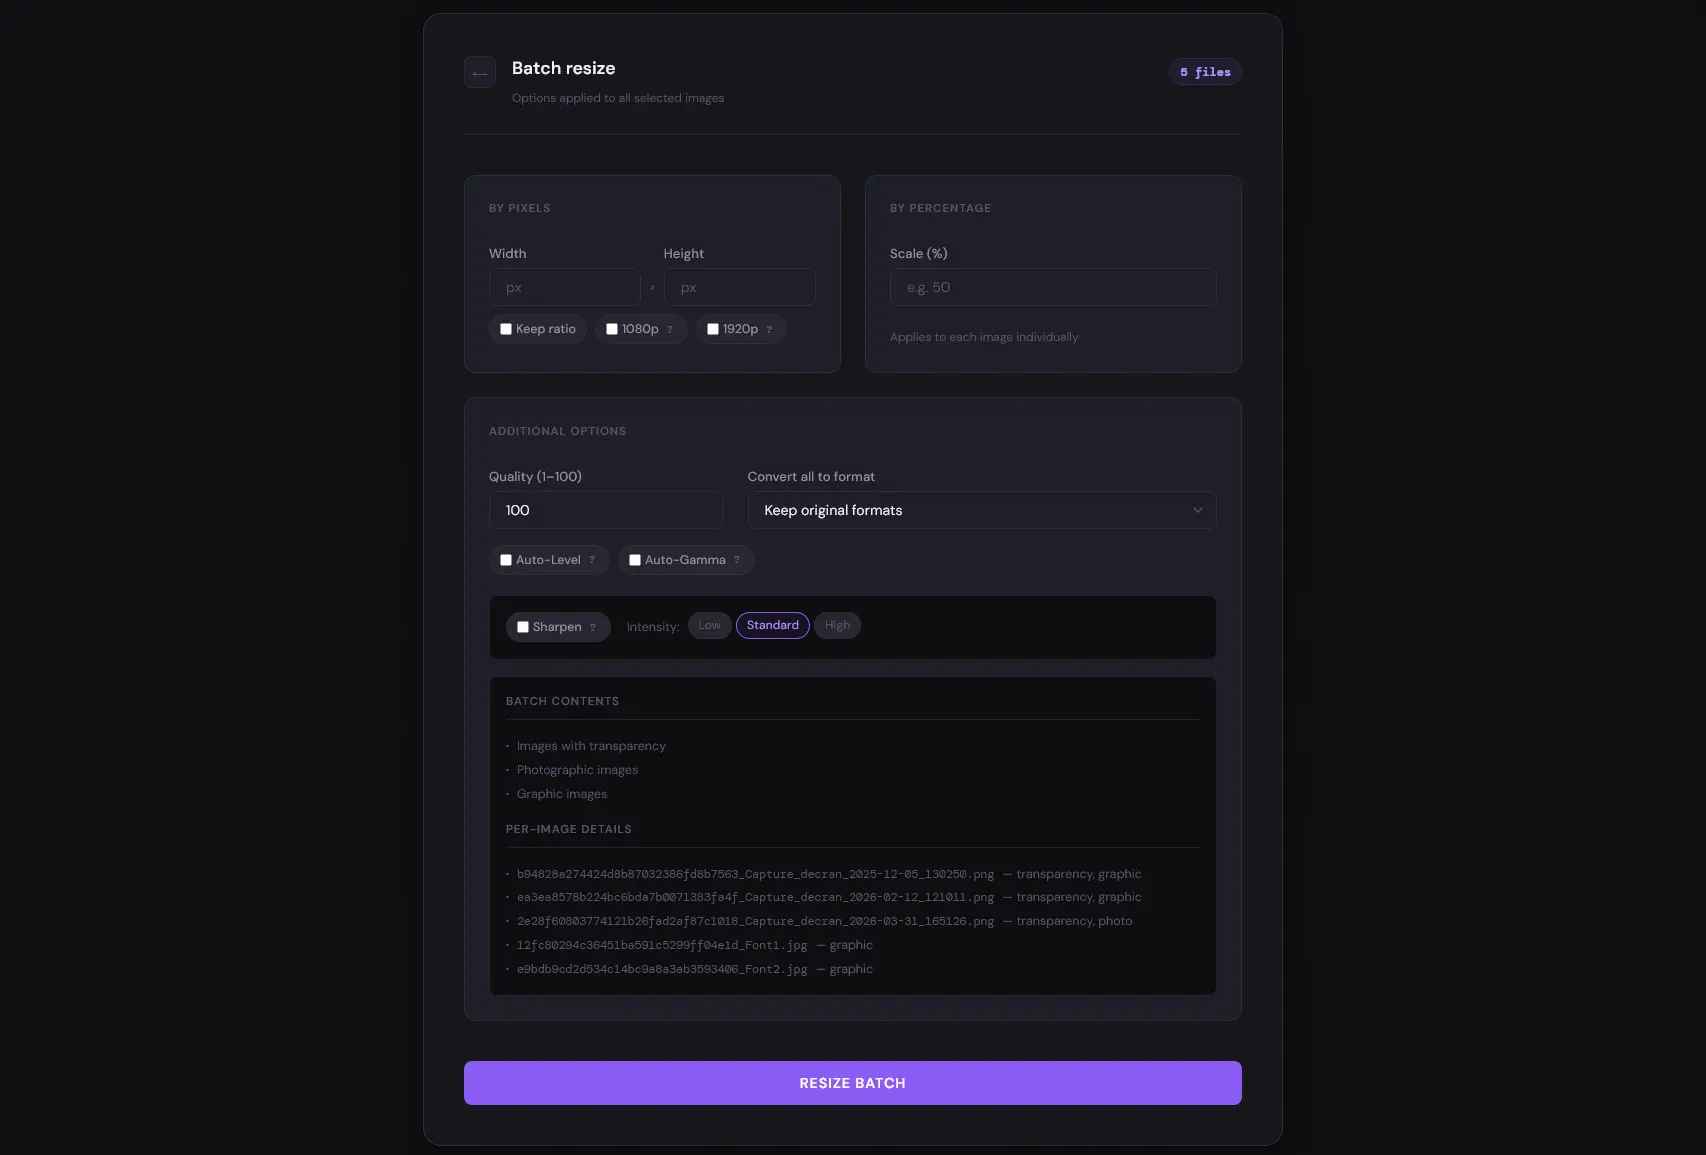
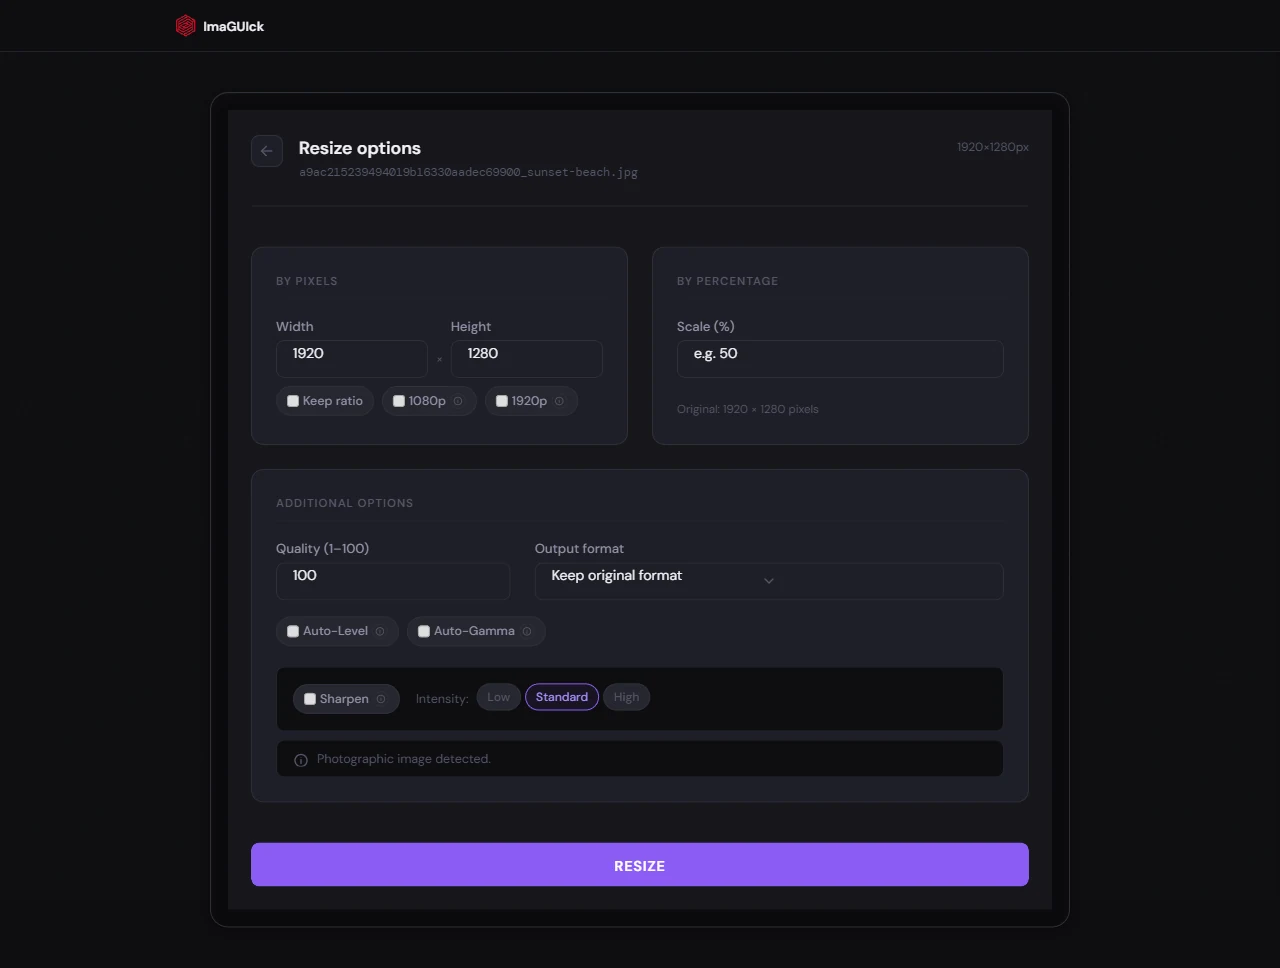
docs: regenerate screenshots against the redesigned UI
Replace the pre-redesign Upload/Options/Results screenshots (flagged
stale by a TODO in the README) and add five new ones covering surfaces
that had no screenshot before: batch resize options, GIF/WEBP creation
with its live preview, GIF/WEBP editing, and both progress-page states
(per-file batch progress and the single-step GIF-building indicator).

diff --git a/README.md b/README.md
@@ -59,13 +59,37 @@ This application has been coded with the help of AI and is designed for **local 
 
 ## Screenshots
 
-<!-- TODO: these were captured against an earlier version of the UI (pre-redesign) — regenerate against the current interface, and consider adding a GIF-creation screenshot. -->
+**Upload** — drag-and-drop or URL import, with a Resize / Create GIF·WEBP tab switcher
 
 ![Upload](https://raw.githubusercontent.com/tiritibambix/ImaGUIck/refs/heads/main/screenshots/Upload.webp)
 
-![Options](https://raw.githubusercontent.com/tiritibambix/ImaGUIck/refs/heads/main/screenshots/Options.webp)
+**Resize options** — single-image resizing with smart format recommendations
 
-![Results](https://raw.githubusercontent.com/tiritibambix/ImaGUIck/refs/heads/main/screenshots/Results.webp)
+![Resize options](https://raw.githubusercontent.com/tiritibambix/ImaGUIck/refs/heads/main/screenshots/Options.webp)
+
+**Batch resize** — shared options applied across every file, with per-image details
+
+![Batch resize](https://raw.githubusercontent.com/tiritibambix/ImaGUIck/refs/heads/main/screenshots/BatchOptions.webp)
+
+**Create GIF/WEBP** — live animation preview before processing, FPS/loop/canvas controls
+
+![Create GIF/WEBP](https://raw.githubusercontent.com/tiritibambix/ImaGUIck/refs/heads/main/screenshots/GifCreate.webp)
+
+**Edit animation** — resize, optimize, reverse, rotate, or extract frames from an existing GIF/WEBP
+
+![Edit animation](https://raw.githubusercontent.com/tiritibambix/ImaGUIck/refs/heads/main/screenshots/GifEdit.webp)
+
+**Batch progress** — real-time per-file status streamed over SSE
+
+![Batch progress](https://raw.githubusercontent.com/tiritibambix/ImaGUIck/refs/heads/main/screenshots/Progress.webp)
+
+**GIF creation progress** — a single ImageMagick pass over all frames, shown honestly as one step rather than a fake per-file counter
+
+![GIF creation progress](https://raw.githubusercontent.com/tiritibambix/ImaGUIck/refs/heads/main/screenshots/GifProgress.webp)
+
+**Result**
+
+![Result](https://raw.githubusercontent.com/tiritibambix/ImaGUIck/refs/heads/main/screenshots/Results.webp)
 
 ---
 
